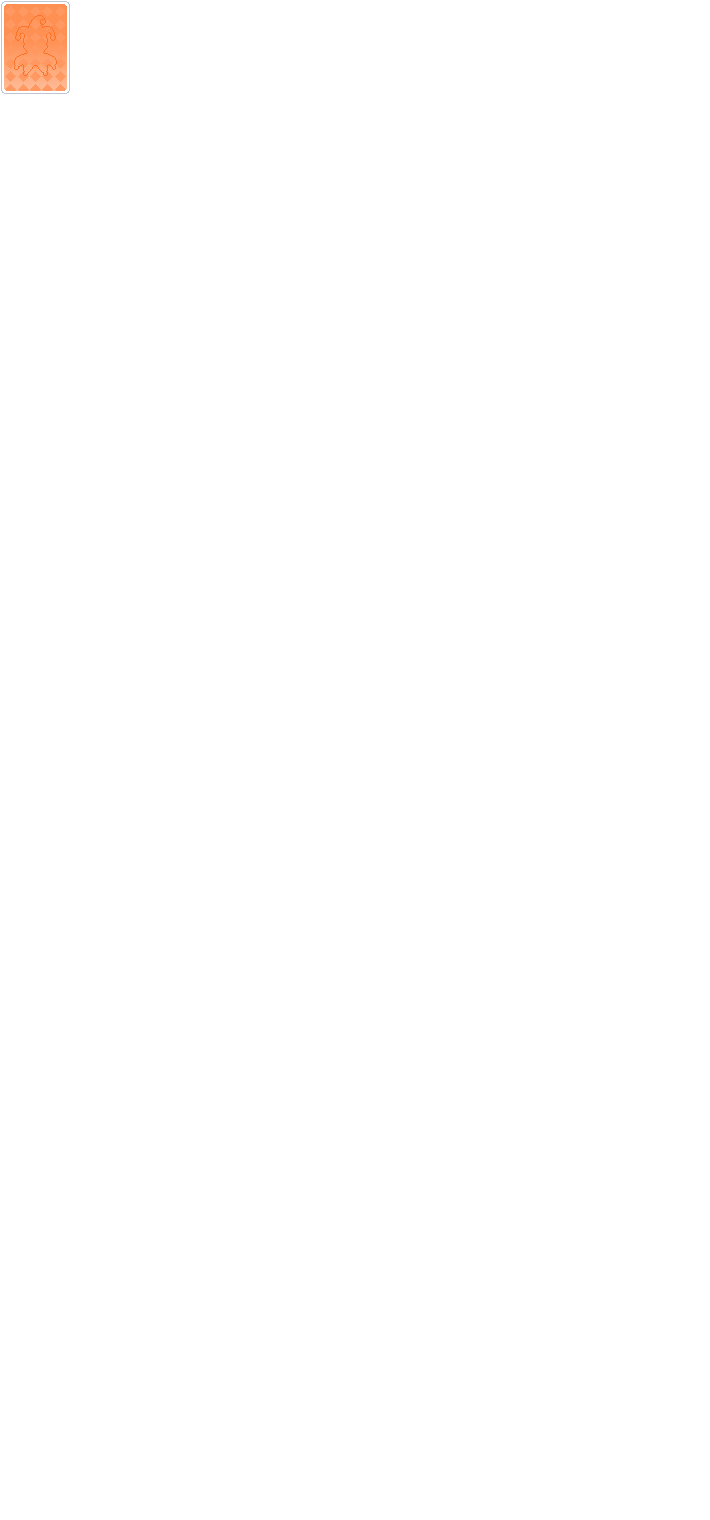
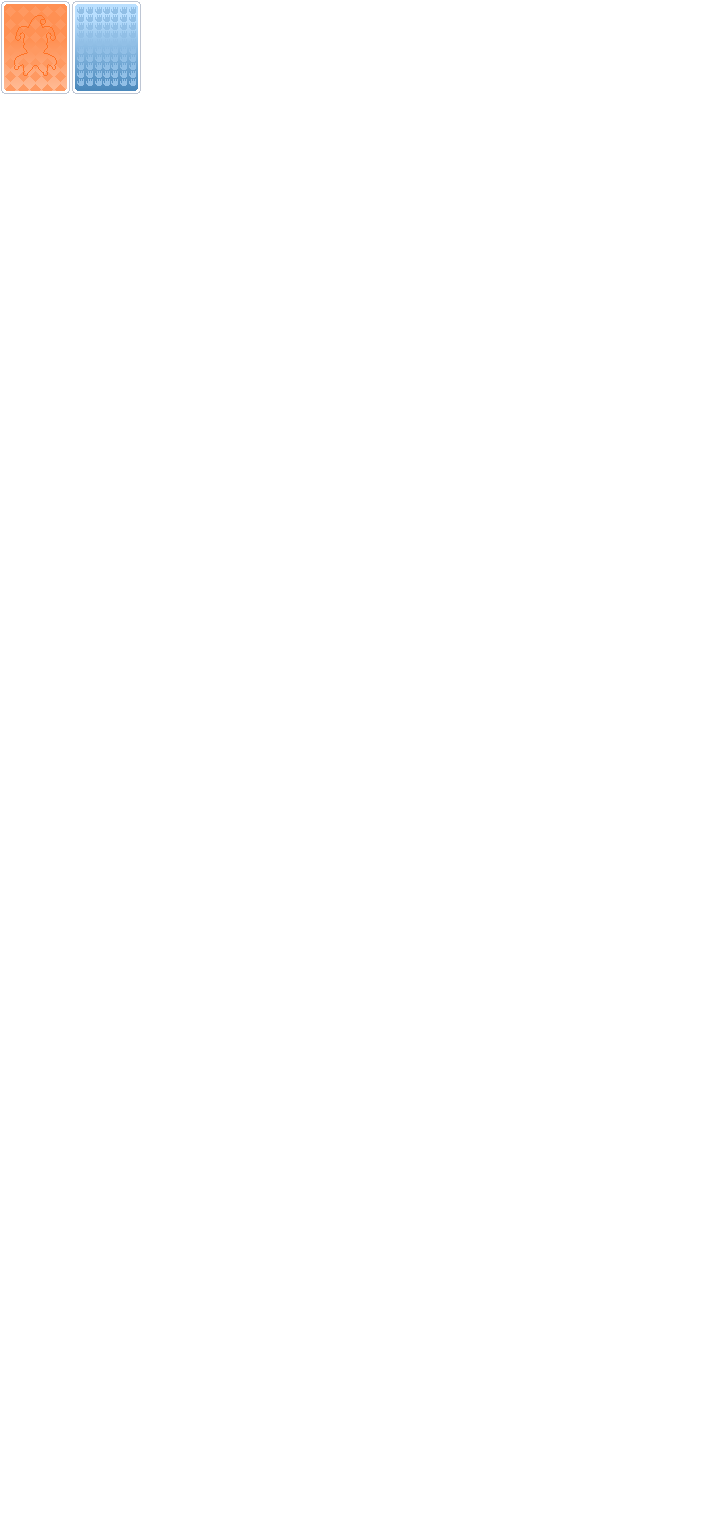
add: Handful Deck

Changed region(s): [[0.093, 0.0, 0.2169, 0.0618]]

diff --git a/README.md b/README.md
@@ -7,7 +7,7 @@ Currently adds (not counting crossmod content):
 - 17 Jokers
 - 2 Tarot Cards
 - 3 Enhancements
-- 1 Deck
+- 2 Decks
 
 Crossmod content:
 [Entropy](https://github.com/lord-ruby/Entropy) (Recommended to play with!):
@@ -20,7 +20,6 @@ Compatibility:
 
 Planned content includes:
 - More Jokers
-- More tarots
+- More decks
 - Spectral cards
-- More enhancements
 - More crossmod content
